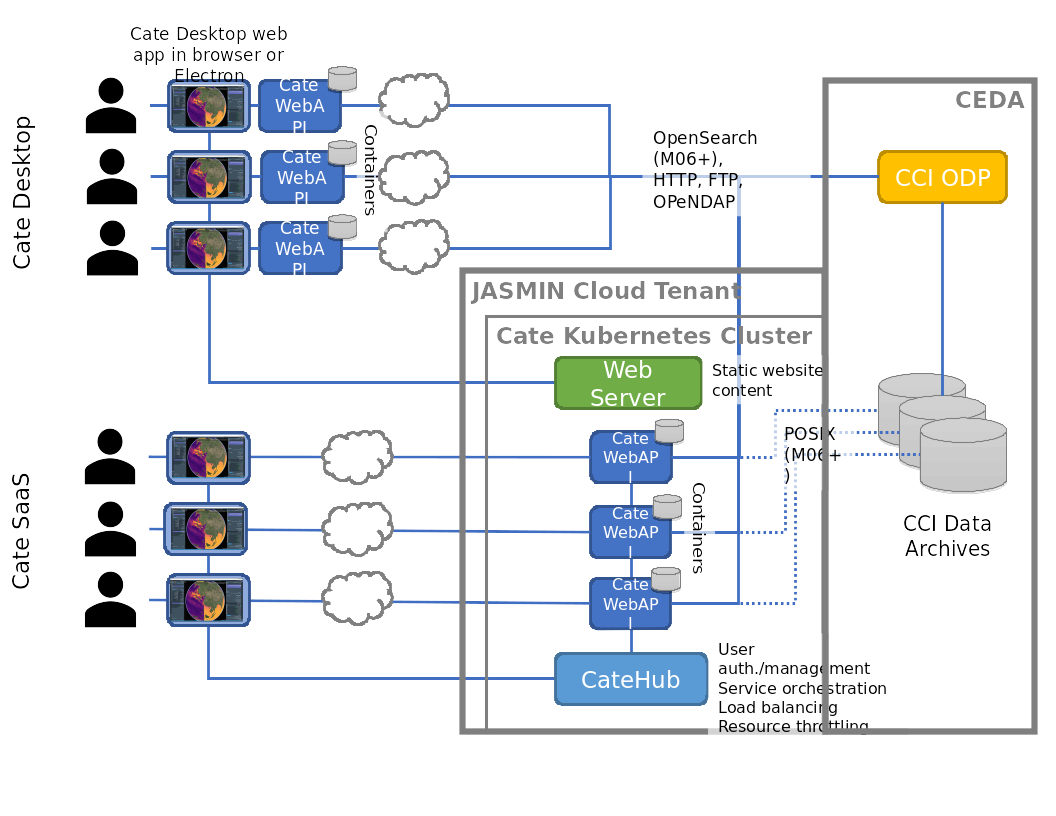
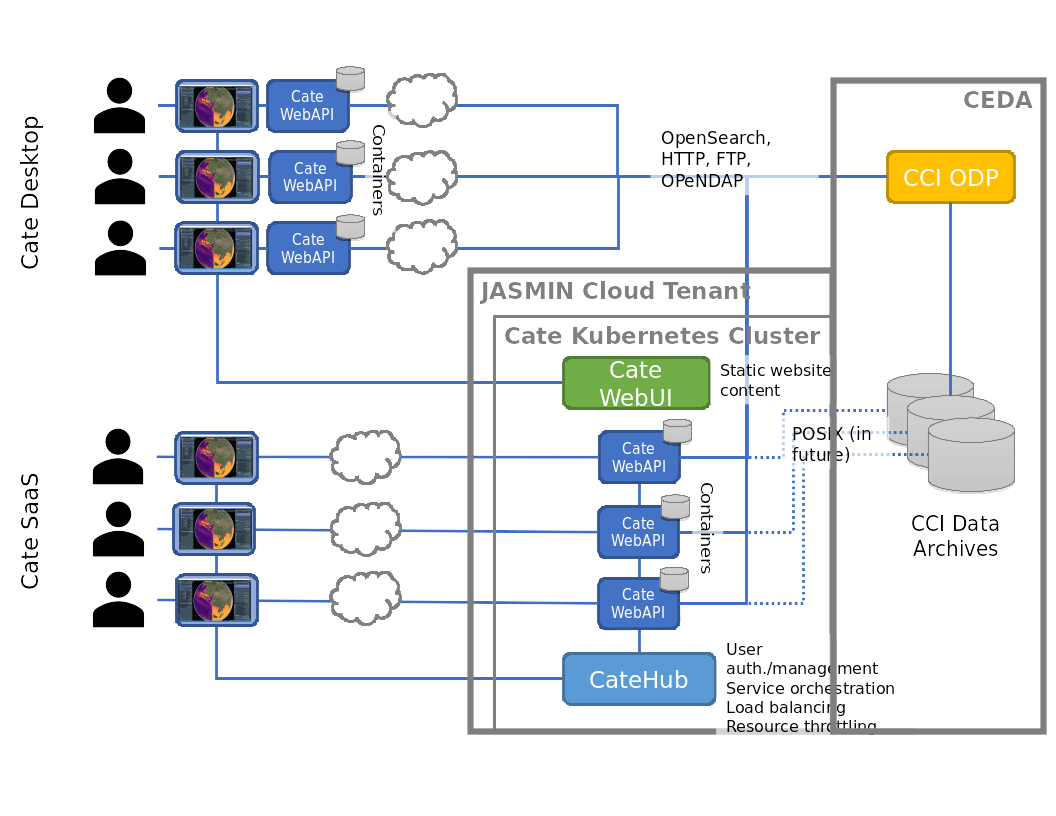
update architecture

diff --git a/docs/source/architecture.rst b/docs/source/architecture.rst
@@ -531,32 +531,27 @@ with the same entry point::
 
 SaaS
 ====
-A live demo deployment of Cate SaaS on the JASMIN_ cloud can be navigated at: https://cate-webui.192.171.139.57.xip.io/.
-This section describes this deployment and might serve as reference for other cloud deployments.
-
-JASMIN CaaS
-------------
-JASMIN_ is an infrastructure facility funded by the Natural Environment Research Council and the UK Space Agency
-and delivered by the Science and Technology Facilities Council. Among its services, it provides a Cluster-as-a-Service
-(CaaS) for its users, comprising Kubernetes clusters and identitiy management clusters. It's co-location with
-CCI data store allows high network bandwidth for large datasets, making it ideal for hosting Cate SaaS.
-
-`JASMIN Kubernetes CaaS`_ along with its identity management server, KeyCloak, is used to deploy Cate SaaS. KeyCloak
-facilitates access to the kubernetes cluster for administration and optionally can be used to authenticate cate users via
-its interface to various identity providers. Using Kubernetes provides load balancing, scalability and portablity of
-Cate SaaS to other cloud providers among other benefits.
+This section describes components and architecture of Cate SaaS. This might serve as reference for Cate SaaS deployments
+on various cloud providers.
 
 Cate Docker
 -----------
-Cate Docker is containerized Cate core image that provides an isolated, frozen environment for Cate core. Users
-can use the image for their local Cate installation. This image forms lowest layer of cate service in Cate SaaS through
-its WebAPI.
+Cate Docker is containerized Cate core image that provides an isolated, frozen environment for Cate core.
+This image forms lowest layer of cate service in Cate SaaS through its WebAPI. Users may also use the image for their
+local Cate installation.
 
 The source for building Cate containers is hosted at https://github.com/CCI-Tools/cate-docker and pre-build images are
 hosted at `https://quay.io <https://quay.io/bcdev/cate-webapi/>`_. The repository will soon be made public.
 In the future, cate container images may support a way to launch both the cate webapi as well as jupyter notebooks under
 a single environment. This can provide users access to their persistant storage and remote cate workspace in jupyter
 notebooks for any further analysis or to develop cate operators.
+
+
+Kubernetes Cluster
+------------------
+Kubernetes automates container orchestration and management on cloud environment. Using Kubernetes provides load
+balancing, scalability and portablity of Cate SaaS to multiple cloud providers among other benefits.
+
 
 CateHub
 -------
@@ -576,8 +571,8 @@ services for each user. The relevant sub-components of CateHub are described her
   end to user's requests, the proxy also logs usage activities of each user to help the hub shutting down pods upon
   inactivity to save resources. Currently, this is configured to be one hour of idleness.
 
-- The authentication component of a hub may also be used for authenticating user access instead of KeyCloak Service used in
-  JASMIN_ cloud like in the demo deployment.
+- The authentication component is used for authenticating user access, this may also be bypassed by external
+  authentication providers such as KeyCloak.
 
 Basing CateHub on JupyterHub has the advantage of a reliable, well-tested framework and, furthermore, JupyterHub_'s
 deployment documentation also serves as reference for CateHub deployment on multiple cloud providers.
@@ -618,11 +613,24 @@ CateHub to spawn a WebAPI service with resources. The spawner component of CateH
 Kubernetes. Upon success, Hub component of CateHub makes changes to the proxy component to
 reverse proxy all the requests on `</user/username>` to the pod.
 
-The schematic illustrates interaction of various components of Cate SaaS deployment.
-
-.. figure:: catehub_components.png
-
-
-
 In future this deployment may be extended with a additional component, Dask Cluster, to provide additional computational
 resources to cate operations.
+
+
+JASMIN Cloud
+------------
+This section describes an example deployment of Cate SaaS on JASMIN_. JASMIN_ is an infrastructure facility funded by
+the Natural Environment Research Council and the UK Space Agency and delivered by the Science and Technology Facilities
+Council. Among its services, it provides a Cluster-as-a-Service (CaaS) for its users, comprising Kubernetes clusters
+and identitiy management clusters. It's co-location with CCI data store allows high network bandwidth for large
+datasets, making it ideal for hosting Cate SaaS.
+
+`JASMIN Kubernetes CaaS`_ along with its identity management server, KeyCloak, is used to deploy Cate SaaS. KeyCloak
+facilitates access to the kubernetes cluster for administration and optionally can be used to authenticate cate users via
+its interface to various identity providers.
+
+
+The following schematic illustrates interaction of various SaaS components in JASMIN_ cloud.
+
+.. figure:: _static/figures/catehub_components.png
+

diff --git a/docs/source/about.rst b/docs/source/about.rst
@@ -20,12 +20,11 @@ Interfaces
 
 Cate comprises four major software interfaces:
 
-1. **Cate Software-as-a-Service**  provides Cate as Software-as-a-Service (SaaS). It is the recommended way to use Cate
-   for the most users. It gives users access to Cate and computational resources without a burden of installation and
-   configuration.
+1. **Cate Software-as-a-Service** (SaaS) It gives users access to Cate and computational resources without a burden of
+   installation and configuration. In future, it is the recommended way to use Cate for most users.
 
 .. warning::
-   Cate SaaS is still an experimental feature. A demo can be accesed at: https://cate-webui.192.171.139.57.xip.io/.
+   Cate SaaS is still experimental. A demo can be accesed at: https://cate-webui.192.171.139.57.xip.io/.
    An interested user needs to register to gain access.
 
 
